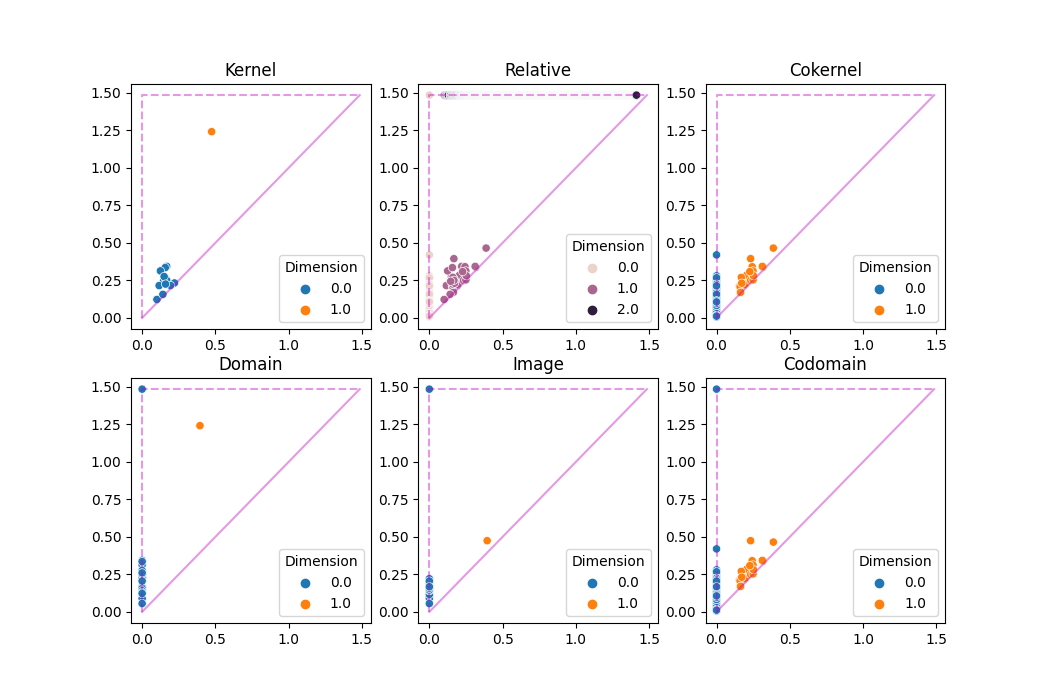
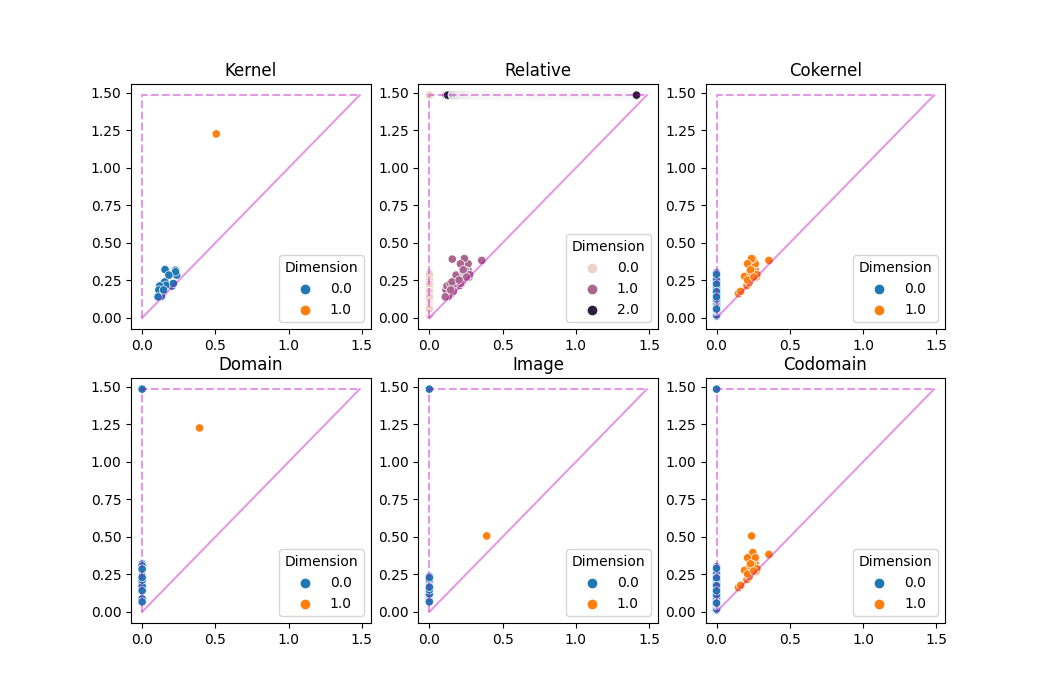
Use clearing and cohomology where possible

diff --git a/src/diagrams.rs b/src/diagrams.rs
@@ -1,4 +1,4 @@
-use lophat::{Column, DiagramReadOff, PersistenceDiagram};
+use lophat::{anti_transpose_diagram, Column, DiagramReadOff, PersistenceDiagram};
 use pyo3::prelude::*;
 
 use crate::{
@@ -18,12 +18,22 @@ pub struct DiagramEnsemble {
 }
 
 impl DecompositionEnsemble {
-    fn is_kernel_birth(&self, idx: usize) -> bool {
+    // Since we anti-transposed f, to check whether a column is negative in f
+    // we need to check the diagram of f after reindexing
+    fn compute_negative_list(&self, diagram: &PersistenceDiagram) -> Vec<bool> {
+        let mut negative_list: Vec<bool> = vec![false; self.size_of_k];
+        for (_birth, death) in diagram.paired.iter() {
+            negative_list[*death] = true;
+        }
+        negative_list
+    }
+
+    fn is_kernel_birth(&self, idx: usize, f_negative_list: &Vec<bool>) -> bool {
         let in_l = self.g_elements[idx];
         if in_l {
             return false;
         }
-        let negative_in_f = self.f.r[idx].pivot().is_some();
+        let negative_in_f = f_negative_list[idx];
         if !negative_in_f {
             return false;
         }
@@ -34,7 +44,7 @@ impl DecompositionEnsemble {
         return true;
     }
 
-    fn is_kernel_death(&self, idx: usize) -> bool {
+    fn is_kernel_death(&self, idx: usize, f_negative_list: &Vec<bool>) -> bool {
         let in_l = self.g_elements[idx];
         if !in_l {
             return false;
@@ -44,21 +54,21 @@ impl DecompositionEnsemble {
         if !negative_in_g {
             return false;
         }
-        let negative_in_f = self.f.r[idx].pivot().is_some();
+        let negative_in_f = f_negative_list[idx];
         if negative_in_f {
             return false;
         }
         return true;
     }
 
-    fn kernel_diagram(&self) -> PersistenceDiagram {
+    fn kernel_diagram(&self, f_negative_list: &Vec<bool>) -> PersistenceDiagram {
         let mut dgm = PersistenceDiagram::default();
         for idx in 0..self.size_of_k {
-            if self.is_kernel_birth(idx) {
+            if self.is_kernel_birth(idx, f_negative_list) {
                 dgm.unpaired.insert(idx);
                 continue;
             }
-            if self.is_kernel_death(idx) {
+            if self.is_kernel_death(idx, f_negative_list) {
                 // TODO: Problem kernel columns have different indexing to f
                 let ker_idx = self.kernel_mapping.map(idx).unwrap();
                 let g_birth_index = self.ker.r[ker_idx].pivot().unwrap();
@@ -70,7 +80,7 @@ impl DecompositionEnsemble {
         dgm
     }
 
-    fn image_diagram(&self) -> PersistenceDiagram {
+    fn image_diagram(&self, f_negative_list: &Vec<bool>) -> PersistenceDiagram {
         let mut dgm = PersistenceDiagram::default();
         for idx in 0..self.size_of_k {
             if self.g_elements[idx] {
@@ -81,7 +91,7 @@ impl DecompositionEnsemble {
                     continue;
                 }
             }
-            let neg_in_f = self.f.r[idx].pivot().is_some();
+            let neg_in_f = f_negative_list[idx];
             if neg_in_f {
                 let lowest_in_rim = self.im.r[idx].pivot().unwrap();
                 let lowest_rim_in_l = lowest_in_rim < self.size_of_l;
@@ -96,18 +106,17 @@ impl DecompositionEnsemble {
         dgm
     }
 
-    fn cokernel_diagram(&self) -> PersistenceDiagram {
+    fn cokernel_diagram(&self, f_negative_list: &Vec<bool>) -> PersistenceDiagram {
         let mut dgm = PersistenceDiagram::default();
         for idx in 0..self.size_of_k {
-            let pos_in_f = self.f.r[idx].pivot().is_none();
+            let pos_in_f = !f_negative_list[idx];
             let g_idx = self.l_first_mapping.map(idx).unwrap();
             let not_in_l_or_neg_in_g = (!self.g_elements[idx]) || self.g.r[g_idx].pivot().is_some();
             if pos_in_f && not_in_l_or_neg_in_g {
                 dgm.unpaired.insert(idx);
                 continue;
             }
-            let neg_in_f = self.f.r[idx].pivot().is_some();
-            if !neg_in_f {
+            if pos_in_f {
                 continue;
             }
             let lowest_rim_in_l = self.im.r[idx].pivot().unwrap() < self.size_of_l;
@@ -121,21 +130,28 @@ impl DecompositionEnsemble {
     }
 
     pub fn all_diagrams(&self) -> DiagramEnsemble {
+        let f_diagram = {
+            let at_diagram = self.f.diagram();
+            anti_transpose_diagram(at_diagram, self.size_of_k)
+        };
+        let f_negative_list = self.compute_negative_list(&f_diagram);
         DiagramEnsemble {
-            f: self.f.diagram(),
             g: {
                 let mut dgm = self.g.diagram();
                 unreorder_idxs(&mut dgm, &self.l_first_mapping);
                 dgm
             },
             rel: {
-                let mut dgm = self.rel.diagram();
+                let at_diagram = self.rel.diagram();
+                let mut dgm =
+                    anti_transpose_diagram(at_diagram, self.size_of_k - self.size_of_l + 1);
                 unreorder_idxs(&mut dgm, &self.rel_mapping);
                 dgm
             },
-            im: self.image_diagram(),
-            ker: self.kernel_diagram(),
-            cok: self.cokernel_diagram(),
+            im: self.image_diagram(&f_negative_list),
+            ker: self.kernel_diagram(&f_negative_list),
+            cok: self.cokernel_diagram(&f_negative_list),
+            f: f_diagram,
         }
     }
 }

diff --git a/src/ensemble.rs b/src/ensemble.rs
@@ -1,6 +1,6 @@
 use std::thread;
 
-use lophat::{rv_decompose, LoPhatOptions, RVDecomposition, VecColumn};
+use lophat::{anti_transpose, rv_decompose, LoPhatOptions, RVDecomposition, VecColumn};
 
 use crate::{
     builders::{build_dcok, build_dg, build_dim, build_dker, build_drel},
@@ -26,67 +26,81 @@ pub struct DecompositionEnsemble {
     pub size_of_k: usize,
 }
 
-fn run_decomposition(
-    matrix: impl Iterator<Item = VecColumn>,
-    new_column_height: Option<usize>,
-    mut options: LoPhatOptions,
-) -> RVDecomposition<VecColumn> {
-    options.column_height = new_column_height;
-    rv_decompose(matrix, &options)
-}
-
 pub fn all_decompositions(
     matrix: Vec<AnnotatedColumn<VecColumn>>,
     num_threads: usize,
 ) -> DecompositionEnsemble {
-    let options = LoPhatOptions {
-        maintain_v: true,
-        column_height: None,
+    let base_options = LoPhatOptions {
+        maintain_v: false,   // Only turn on maintain_v on threads where we need it
+        column_height: None, // Assume square unless told otherwise
         num_threads,
-        min_chunk_len: 1000,
-        clearing: false,
+        min_chunk_len: 10000,
+        clearing: true, // Clear whenever we can
     };
-    // TODO: Clean this up so we aren't collecting the matrix again.
+
     let l_first_mapping = compute_l_first_mapping(&matrix);
-    let g_elements: Vec<bool> = matrix.iter().map(|anncol| anncol.in_g).collect();
+
+    let (g_elements, df): (Vec<_>, Vec<_>) = matrix
+        .into_iter()
+        .map(|anncol| (anncol.in_g, anncol.col))
+        .unzip();
+
     let size_of_l = g_elements.iter().filter(|in_g| **in_g).count();
-    let size_of_k = matrix.len();
-    let df: Vec<VecColumn> = matrix.into_iter().map(|anncol| anncol.col).collect();
+    let size_of_k = df.len();
+
     let (f, (g, cok), (im, ker, kernel_mapping), (rel, rel_mapping)) = thread::scope(|s| {
         let thread1 = s.spawn(|| {
             // Decompose Df
-            let out = run_decomposition(df.iter().cloned(), Some(size_of_k), options.clone());
+            // Df is a chain complex so can compute anti-transpose instead
+            let df_at = anti_transpose(&df);
+            let out = rv_decompose(df_at.into_iter(), &base_options);
             println!("Decomposed f");
             out
         });
+
         let thread2 = s.spawn(|| {
             // Decompose Dg
+            // Need to use v columns of Dg later, so no AT
             let dg = build_dg(&df, &g_elements, &l_first_mapping);
-            let decomp_dg = run_decomposition(dg, Some(size_of_l), options.clone());
+            let mut dg_options = base_options.clone();
+            dg_options.maintain_v = true;
+            let decomp_dg = rv_decompose(dg, &dg_options);
             println!("Decomposed g");
             // Decompose dcok
             let dcok = build_dcok(&df, &decomp_dg, &g_elements, &l_first_mapping);
-            let decompose_dcok = run_decomposition(dcok, Some(size_of_k), options.clone());
+            let mut dcok_options = base_options.clone();
+            dcok_options.clearing = false; // Not a chain complex
+            let decompose_dcok = rv_decompose(dcok, &dcok_options);
             println!("Decomposed cok");
             (decomp_dg, decompose_dcok)
         });
+
         let thread3 = s.spawn(|| {
             // Decompose dim
+            // Need to use v columns of Dim later, also no AT or clearing since D^2 != 0
             let dim = build_dim(&df, &l_first_mapping);
-            let decompose_dim = run_decomposition(dim, Some(size_of_k), options.clone());
+            let mut dim_options = base_options.clone();
+            dim_options.maintain_v = true;
+            dim_options.clearing = false;
+            let decompose_dim = rv_decompose(dim, &dim_options);
             println!("Decomposed im");
             // Decompose dker
             let dker = build_dker(&decompose_dim, &l_first_mapping);
-            let decompose_dker = run_decomposition(dker, Some(size_of_k), options.clone());
+            let mut dker_options = base_options.clone();
+            dker_options.clearing = false; // Not a chain complex so no clearing
+            dker_options.column_height = Some(size_of_k); // Non-square matrix
+            let decompose_dker = rv_decompose(dker, &dker_options);
             println!("Decomposed ker");
             let kernel_mapping = build_kernel_mapping(&decompose_dim);
             (decompose_dim, decompose_dker, kernel_mapping)
         });
+
         let thread4 = s.spawn(|| {
             let (rel_mapping, l_index) = build_rel_mapping(&df, &g_elements, size_of_l, size_of_k);
-            let drel = build_drel(&df, &g_elements, &rel_mapping, l_index);
-            let decompose_drel =
-                run_decomposition(drel, Some(size_of_k - size_of_l + 1), options.clone());
+            let drel = build_drel(&df, &g_elements, &rel_mapping, l_index).collect();
+            // Chain complex so can use clearing and AT
+            let drel_at = anti_transpose(&drel);
+            let decompose_drel = rv_decompose(drel_at.into_iter(), &base_options);
             println!("Decomposed rel");
             (decompose_drel, rel_mapping)
         });

diff --git a/src/utils.rs b/src/utils.rs
@@ -11,8 +11,10 @@ pub fn print_matrix(matrix: &Vec<VecColumn>) {
 pub fn print_decomp(decomp: &RVDecomposition<VecColumn>) {
     println!("R:");
     print_matrix(&decomp.r);
-    println!("V:");
-    print_matrix(&decomp.v.as_ref().unwrap());
+    if decomp.v.is_some() {
+        println!("V:");
+        print_matrix(&decomp.v.as_ref().unwrap());
+    }
 }
 
 pub fn print_ensemble(ensemble: &DecompositionEnsemble) {
